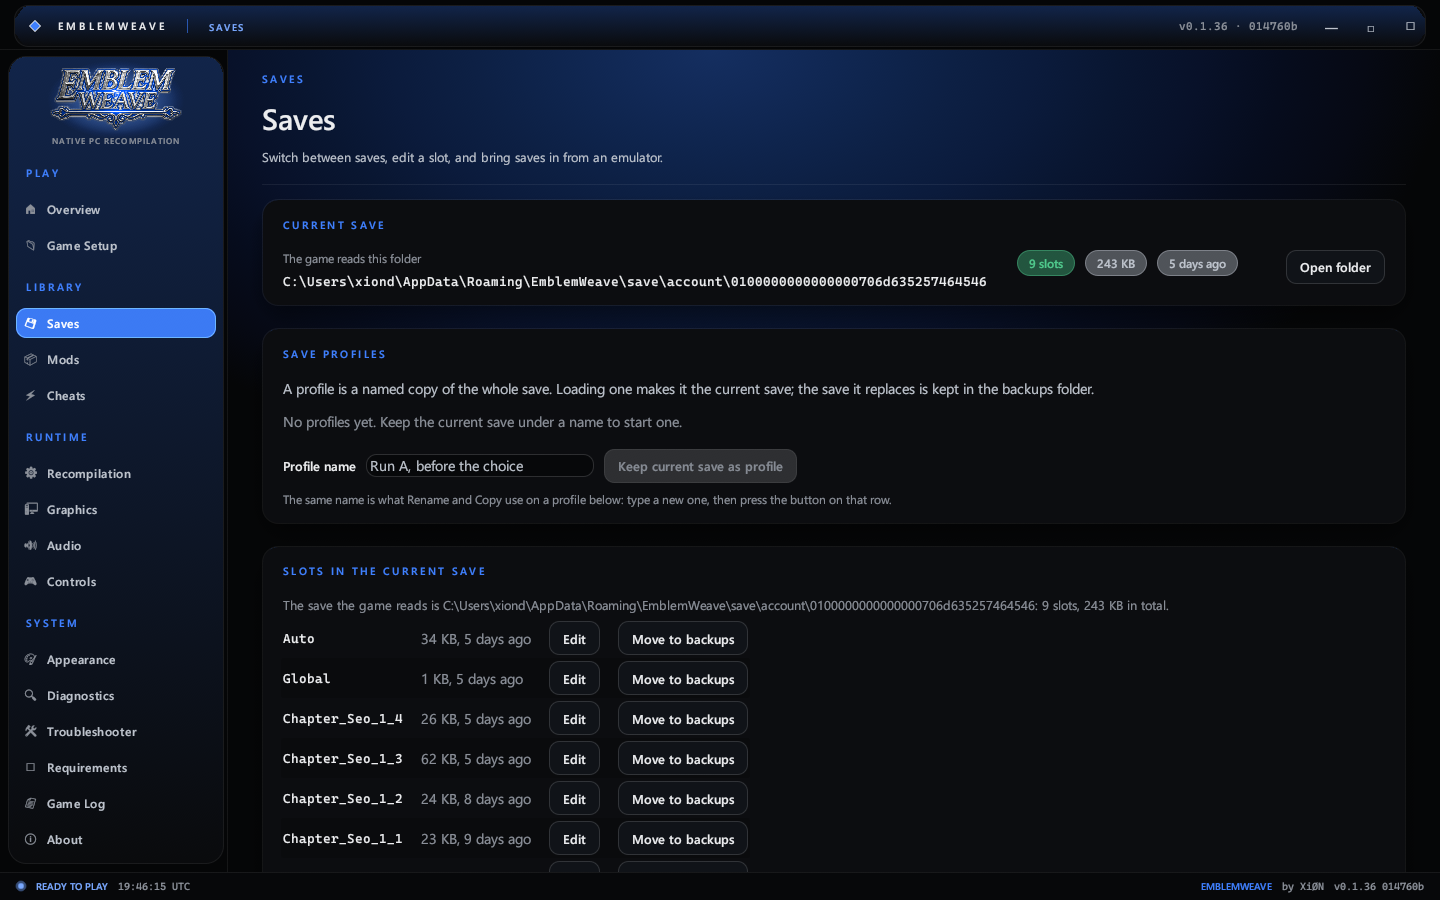
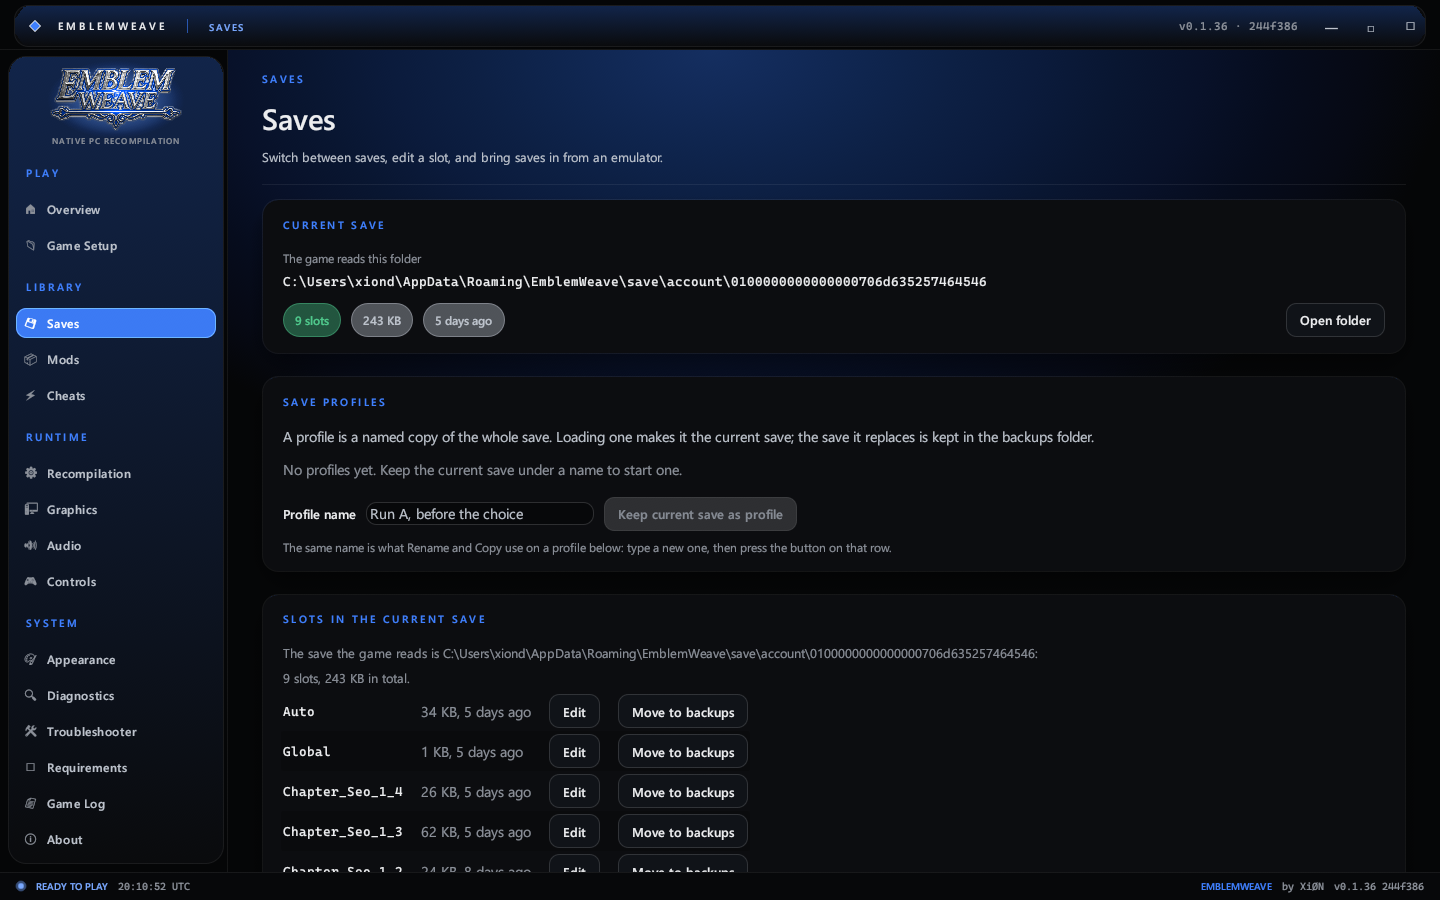
Keep the Saves page inside a 1120-wide window
The account path is one long unbroken string, so it pushed the slot badges and Open folder button past the card at the narrow layout. It now truncates with the full path in the hover, and the badges sit on their own row. Documentation screenshots were recaptured from the current build.

🤖 Generated with Codebuff

diff --git a/apps/emblemweave/src/pages/saves.rs b/apps/emblemweave/src/pages/saves.rs
@@ -101,12 +101,13 @@ pub fn show(app: &mut App, ui: &mut egui::Ui) {
     let account = crate::saves::account_dir(&save_dir);
     let current = crate::saves::slots_with_sizes(&save_dir);
     widgets::section(ui, &p, "Current save", |ui| {
-        ui.horizontal_top(|ui| {
-            ui.vertical(|ui| {
-                ui.label(RichText::new("The game reads this folder").size(12.0).color(p.muted));
-                ui.label(RichText::new(account.display().to_string()).font(theme::mono(12.5)).color(p.ink)).on_hover_text("account/<the title's fixed user id>");
-            });
-            ui.add_space(theme::SPACE_L);
+        ui.label(RichText::new("The game reads this folder").size(12.0).color(p.muted));
+        // A long path has no spaces to wrap at. Truncate it in the card and keep
+        // the whole path in the hover, so it cannot push the badges off the edge.
+        ui.add(egui::Label::new(RichText::new(account.display().to_string()).font(theme::mono(12.5)).color(p.ink)).truncate())
+            .on_hover_text(format!("{}\naccount/<the title's fixed user id>", account.display()));
+        ui.add_space(6.0);
+        ui.horizontal(|ui| {
             let newest = current.iter().filter_map(|s| s.1).max();
             widgets::pill(ui, &p, &format!("{} slots", current.len()), if current.is_empty() { Tone::Neutral } else { Tone::Ok });
             if !current.is_empty() {
@@ -115,18 +116,12 @@ pub fn show(app: &mut App, ui: &mut egui::Ui) {
             if let Some(t) = newest {
                 widgets::pill(ui, &p, &ago(Some(t)), Tone::Neutral);
             }
-            // A fixed row height, not the remaining page height: `with_layout` in a horizontal row otherwise
-            // stretches this card to the bottom of the window.
-            ui.allocate_ui_with_layout(
-                egui::vec2(ui.available_width(), 34.0),
-                egui::Layout::right_to_left(egui::Align::Center),
-                |ui| {
-                    if widgets::button(ui, &p, "Open folder", true).clicked() {
-                        let _ = std::fs::create_dir_all(&account);
-                        let _ = std::process::Command::new("explorer").arg(&account).spawn();
-                    }
-                },
-            );
+            ui.with_layout(egui::Layout::right_to_left(egui::Align::Center), |ui| {
+                if widgets::button(ui, &p, "Open folder", true).clicked() {
+                    let _ = std::fs::create_dir_all(&account);
+                    let _ = std::process::Command::new("explorer").arg(&account).spawn();
+                }
+            });
         });
         if current.is_empty() {
             ui.add_space(4.0);
@@ -228,10 +223,12 @@ pub fn show(app: &mut App, ui: &mut egui::Ui) {
     widgets::section(ui, &p, "Slots in the current save", |ui| {
         let account = crate::saves::account_dir(&save_dir);
         let slots = crate::saves::slots_with_sizes(&save_dir);
+        let account_text = format!("The save the game reads is {}:", account.display());
+        ui.add(egui::Label::new(RichText::new(account_text.clone()).size(12.5).color(p.muted)).truncate())
+            .on_hover_text(account_text);
         ui.label(
             RichText::new(format!(
-                "The save the game reads is {}: {} slot{}, {} in total.",
-                account.display(),
+                "{} slot{}, {} in total.",
                 slots.len(),
                 if slots.len() == 1 { "" } else { "s" },
                 megabytes(slots.iter().map(|s| s.2).sum())
